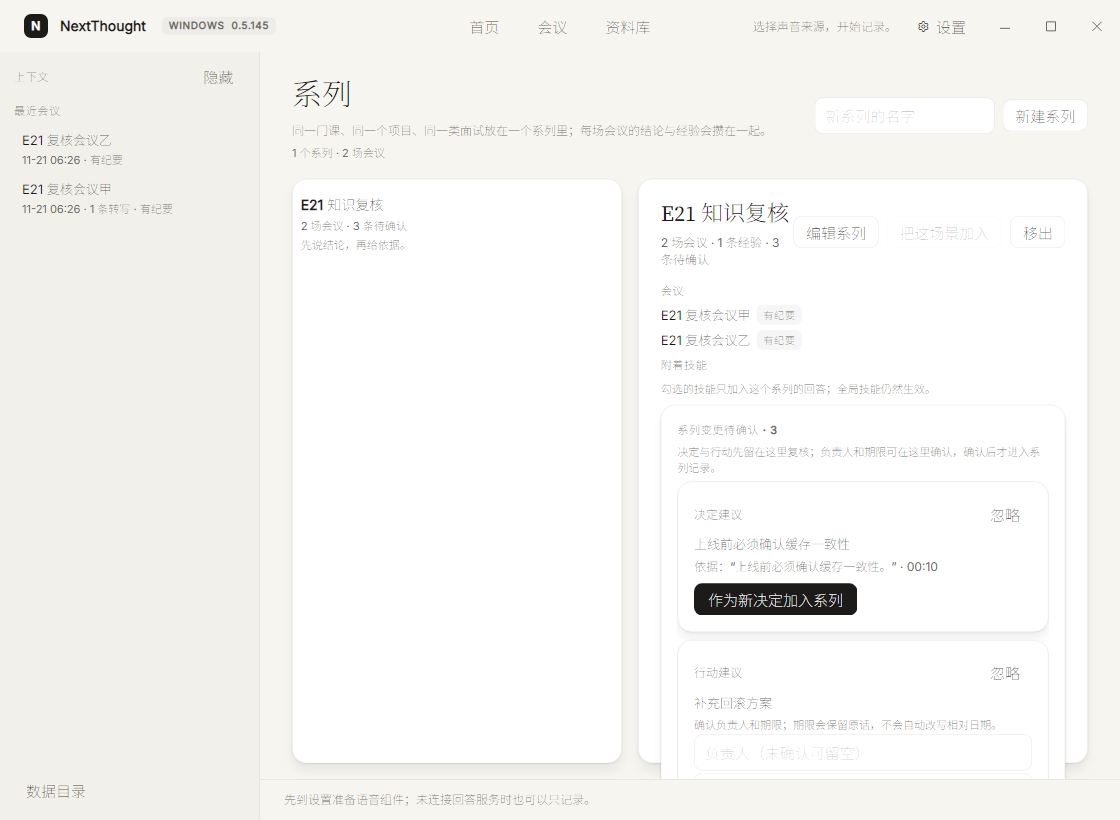
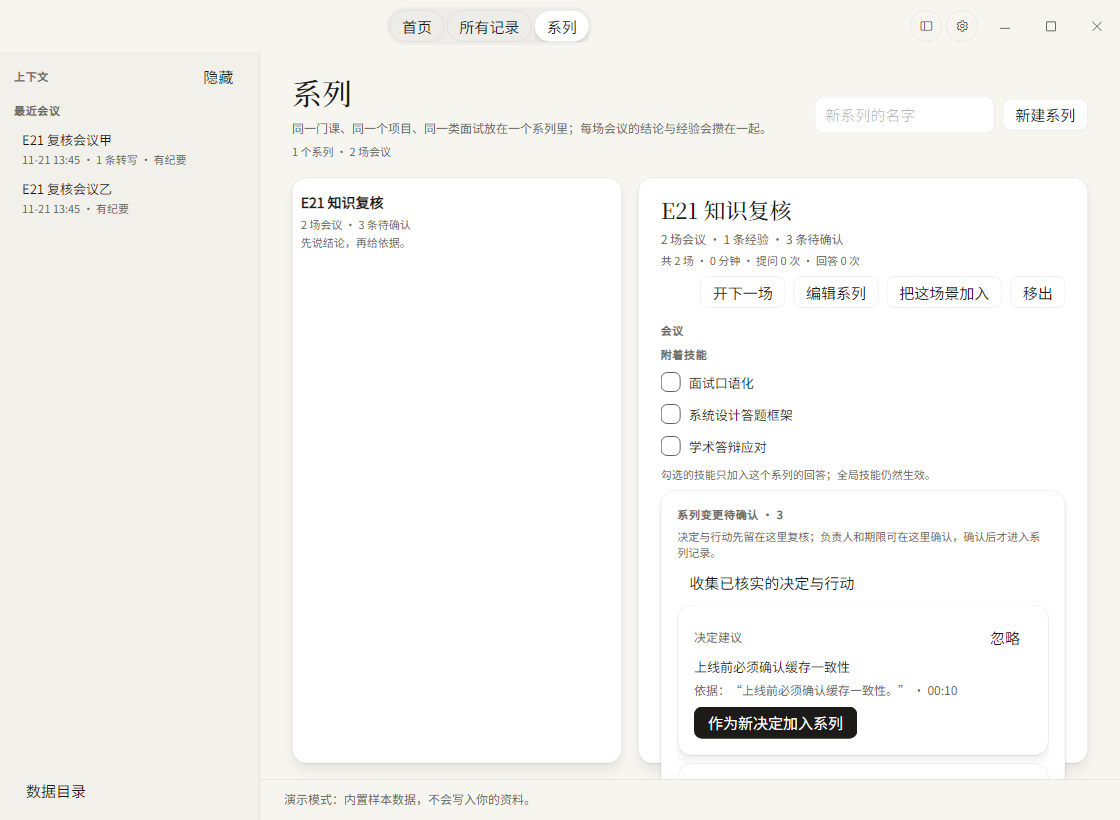
E18: fix the series record persistence and close the knowledge review check (§6.7)
The knowledge-review self-check failed because WorkspaceStore.Save dropped WorkspaceSeries.SessionIds:
the property is [JsonIgnore] (Windows grouping state, not part of the Mac model) and the refactor that
moved workspaces to one file per series saved the record without it, so after a reload a series had no
meetings and both the 记录 tab and the self-check came back empty. Save now writes "sessionIds"
explicitly into each series file and into the legacy Workspace/workspace.json (SerializeSeries /
SerializeData), which Load already reads back through ReadSessionIds. New Core test
WorkspaceSessionRoundTripTests (2/2) pins the round trip.

Two smaller self-check prerequisites were also real UI-state bugs: the demo library stage cleared
SelectedSeries when the demo interview series was not in the loaded workspace (custom/self-test data),
and FocusSeriesForCheck assigned the row RefreshSeries had already selected, so OnSelectedSeriesChanged
never fired and the records/changes lists stayed stale. The demo stages now only select a series they
found, and the check path rebuilds every per-series list explicitly.

Evidence: --self-test=knowledge-review passed (12 steps; knowledge-review-check.json refreshed);
validation/screens/knowledge-review/ has series-change-light.png, series-knowledge-light.png and the
material review window in both themes (material-review-{light,dark}.png), plus the task-62/E18 closure
[…]

diff --git a/Windows/src/NextThought.Core/Workspace.cs b/Windows/src/NextThought.Core/Workspace.cs
@@ -1,4 +1,5 @@
 using System.Text.Json;
+using System.Text.Json.Nodes;
 using System.Text.Json.Serialization;
 
 namespace NextThought.Core;
@@ -490,7 +491,7 @@ public sealed class WorkspaceStore
         {
             var name = StableSeriesId(series.Id) + ".json";
             keep.Add(name);
-            AtomicWrite(Path.Combine(seriesDirectory, name), JsonSerializer.Serialize(series, Options));
+            AtomicWrite(Path.Combine(seriesDirectory, name), SerializeSeries(series));
         }
         // Delete only files that were read successfully and are no longer present in memory.
         // Unreadable or unknown files stay untouched; they may be hand-edited Mac data.
@@ -503,7 +504,34 @@ public sealed class WorkspaceStore
         SyncSessionMetaFiles(data);
         SaveDocumentIds(data);
         // Legacy single-file copy for older Windows builds; Mac reads Workspaces/.
-        AtomicWrite(path, JsonSerializer.Serialize(data, Options));
+        AtomicWrite(path, SerializeData(data));
+    }
+
+    /// <summary>
+    /// SessionIds is [JsonIgnore] (it is Windows grouping state, not part of the Mac model), but the
+    /// archive still has to keep it: Load() reads "sessionIds" back through ReadSessionIds. Write the
+    /// field explicitly so a save/load round trip keeps a series' meetings.
+    /// </summary>
+    private static string SerializeSeries(WorkspaceSeries series)
+    {
+        var node = JsonSerializer.SerializeToNode(series, Options)!.AsObject();
+        node["sessionIds"] = new JsonArray(series.SessionIds.Select(id => (JsonNode?)JsonValue.Create(id)).ToArray());
+        return node.ToJsonString(Options);
+    }
+
+    private static string SerializeData(WorkspaceData data)
+    {
+        var node = JsonSerializer.SerializeToNode(data, Options)!.AsObject();
+        if (node["series"] is JsonArray seriesNodes)
+        {
+            for (var index = 0; index < seriesNodes.Count && index < data.Series.Count; index++)
+            {
+                if (seriesNodes[index] is not JsonObject seriesNode) continue;
+                seriesNode["sessionIds"] = new JsonArray(data.Series[index].SessionIds
+                    .Select(id => (JsonNode?)JsonValue.Create(id)).ToArray());
+            }
+        }
+        return node.ToJsonString(Options);
     }
 
     /// <summary>A6/§4.3: the on-disk identifier spelling is upper-case with hyphens.</summary>

diff --git a/Windows/tests/NextThought.Core.Tests/WorkspaceSessionRoundTripTests.cs b/Windows/tests/NextThought.Core.Tests/WorkspaceSessionRoundTripTests.cs
@@ -1,0 +1,49 @@
+using NextThought.Core;
+using Xunit;
+
+namespace NextThought.Core.Tests;
+
+/// <summary>
+/// task-62/E18: the series page's record tab matches meetings through WorkspaceSeries.SessionIds,
+/// which is [JsonIgnore] because it is Windows grouping state. WorkspaceStore must still write it:
+/// before this test the save/load round trip silently dropped a series' meetings, so the series
+/// record list (and the knowledge-review self-test) came back empty after a reload.
+/// </summary>
+public sealed class WorkspaceSessionRoundTripTests
+{
+    private static string NewRoot() =>
+        Path.Combine(Path.GetTempPath(), "nt-workspace-sessions-" + Guid.NewGuid().ToString("N"));
+
+    [Fact]
+    public void SavingAndLoadingAWorkspaceKeepsTheSeriesMeetings()
+    {
+        var root = NewRoot();
+        try
+        {
+            var series = WorkspaceSeries.Create("E18 round trip") with { SessionIds = ["first-id", "second-id"] };
+            new WorkspaceStore(root).Save(new WorkspaceData([series]));
+
+            var reloaded = new WorkspaceStore(root).Load();
+            var found = Assert.Single(reloaded.Series);
+            Assert.Equal(series.Id, found.Id);
+            Assert.Equal(["first-id", "second-id"], found.SessionIds);
+        }
+        finally { try { Directory.Delete(root, true); } catch { } }
+    }
+
+    [Fact]
+    public void TheLegacySingleFileAlsoKeepsTheSeriesMeetings()
+    {
+        var root = NewRoot();
+        try
+        {
+            var series = WorkspaceSeries.Create("E18 legacy") with { SessionIds = ["meeting-id"] };
+            new WorkspaceStore(root).Save(new WorkspaceData([series]));
+            // A Mac-style loader may fall back to the legacy aggregate file; it has to carry the ids too.
+            var legacy = Path.Combine(root, "Workspace", "workspace.json");
+            Assert.True(File.Exists(legacy));
+            Assert.Contains("sessionIds", File.ReadAllText(legacy), StringComparison.Ordinal);
+        }
+        finally { try { Directory.Delete(root, true); } catch { } }
+    }
+}

diff --git a/Windows/src/NextThought.Desktop/AppState.Demo.cs b/Windows/src/NextThought.Desktop/AppState.Demo.cs
@@ -80,7 +80,7 @@ public partial class AppState
         RefreshSkillRows();
         // Series page and the history's series grouping.
         RefreshSeries();
-        SelectedSeries = SeriesRows.FirstOrDefault(row => row.Id == demo.InterviewSeries.Id);
+        if (SeriesRows.FirstOrDefault(row => row.Id == demo.InterviewSeries.Id) is { } demoSeries) SelectedSeries = demoSeries;
         RefreshSeriesMeetings();
         RefreshSeriesLessons();
         RefreshSeriesSkills();
@@ -132,7 +132,7 @@ public partial class AppState
             MeetingTitle = demo.Draft.Title;
             SelectedMode = MeetingMode.Interview;
             OnPropertyChanged(nameof(SelectedScene));
-            SelectedSeries = SeriesRows.FirstOrDefault(row => row.Id == demo.InterviewSeries.Id);
+            if (SeriesRows.FirstOrDefault(row => row.Id == demo.InterviewSeries.Id) is { } demoSeries) SelectedSeries = demoSeries;
         }
         else if (plan.Page == DemoPage.Meetings && plan.Defaults.TryGetValue("demoNotes", out var notes) && notes == "work")
         {
@@ -216,7 +216,7 @@ public partial class AppState
             case "library":
                 ApplyDemoStage(DemoStages.Library);
                 MeetingTitle = "";
-                SelectedSeries = SeriesRows.FirstOrDefault(row => row.Id == demo.InterviewSeries.Id);
+                if (SeriesRows.FirstOrDefault(row => row.Id == demo.InterviewSeries.Id) is { } demoSeries) SelectedSeries = demoSeries;
                 break;
             case "settings":
                 ApplyDemoStage(DemoStages.Settings);

diff --git a/Windows/src/NextThought.Desktop/SelfTest/Checks/RunKnowledgeReviewCheckAsync.cs b/Windows/src/NextThought.Desktop/SelfTest/Checks/RunKnowledgeReviewCheckAsync.cs
@@ -216,6 +216,11 @@ public partial class MainWindow
             reviewWindow.Show();
             await Task.Delay(600);
             CaptureVisual(reviewWindow, Path.Combine(directory, "material-review-light.png"));
+            Application.Current!.RequestedThemeVariant = Avalonia.Styling.ThemeVariant.Dark;
+            await Task.Delay(350);
+            CaptureVisual(reviewWindow, Path.Combine(directory, "material-review-dark.png"));
+            Application.Current.RequestedThemeVariant = Avalonia.Styling.ThemeVariant.Light;
+            await Task.Delay(250);
             reviewWindow.Close();
             await Task.Delay(200);
             passed = steps.All(step => (bool)step.GetType().GetProperty("passed")!.GetValue(step)!);

diff --git a/Windows/src/NextThought.Desktop/AppState.Series.cs b/Windows/src/NextThought.Desktop/AppState.Series.cs
@@ -420,7 +420,13 @@ public partial class AppState
     {
         RefreshSeries();
         SelectedSeries = SeriesRows.FirstOrDefault(row => row.Id == seriesId);
+        // Assigning the row that RefreshSeries already selected does not fire OnSelectedSeriesChanged,
+        // so rebuild the per-series lists explicitly (self-check path).
         RefreshSeriesLessons();
+        RefreshSeriesMeetings();
+        RefreshSeriesSkills();
+        RefreshSeriesChanges();
+        RefreshSeriesStats();
     }
 
     /// <summary>Reloads workspace.json the way a new launch would.</summary>

diff --git a/Windows/validation/screens/knowledge-review/compare.md b/Windows/validation/screens/knowledge-review/compare.md
@@ -80,3 +80,14 @@ Windows 截图：`Windows/validation/screens/knowledge-review/`（自检 `knowle
 4. 资料复核：无 QuickLook 内嵌原件预览；「打开完整文本」打开的是解析 JSON（Windows 无归档 Markdown 路径）；截断说明/80k 预览已对照。
 5. 无 Mac 对应视图截图（KnowledgeReviewSection/WorkspaceRecordsTab/MaterialReviewSheet 均无 docs 截图），本轮截图仅 Windows 自检取证；按口径状态最多「已实现、未验证」。
 6. 记录标签的排序跟随当前历史排序（Mac 按 startedAt 倒序），差异小但未逐项对齐。
+
+## task-62 / E18 闭环：知识复核与资料复核（2026-11-21，阶段 4 §6.7）
+
+- Mac 参照：`Sources/NextThought/KnowledgeReviewSection.swift`（知识/决定/行动候选卡）、`ProjectLibrarySupport.swift`（WorkspaceRecordsTab / MaterialReviewSheet）；macOS 无对应截图，按源码逐元素。
+- 本轮自检：`--self-test=knowledge-review` **passed**（`knowledge-review-check.json` 已更新入库，12 步全过）。
+- 截图（本目录，本轮隔离数据目录重拍）：`series-change-light.png`（系列页「待确认」变更卡）、`series-knowledge-light.png`（知识候选标签）、`material-review-light.png` / `material-review-dark.png`（资料复核窗口浅/深）。
+- 本轮修掉的 3 个真实问题（E18 阻塞的根因，全部在系列/Workspace 范围）：
+  1. **`WorkspaceStore.Save` 丢 `sessionIds`**：`WorkspaceSeries.SessionIds` 是 `[JsonIgnore]`（Windows 分组状态），旧实现直接序列化 series，保存后 `sessionIds` 不落盘，`Load()` 读回 0 条记录 → 系列「记录」标签与知识复核自检都变空。现 Save 显式把 `sessionIds` 写入每个 series 文件与 legacy `Workspace/workspace.json`（`SerializeSeries`/`SerializeData`），Load 原有 `ReadSessionIds` 读回；新增 `WorkspaceSessionRoundTripTests` 2/2 锁定往返。
+  2. **demo 切页清空选中系列**：`ApplyDemoStage(Library)` 在自定义 workspace（自检/真实非 demo 数据）里找不到 demo 面试系列时把 `SelectedSeries = null`；现在找到才赋值，不再覆盖用户/自检选择（`AppState.Demo.cs` 3 处）。
+  3. **`FocusSeriesForCheck` 选中不触发刷新**：`RefreshSeries()` 已默认选中同一行，再赋同值不触发 `OnSelectedSeriesChanged`，导致记录/变更列表不重建；现在显式刷新 lessons/meetings/skills/changes/stats（`AppState.Series.cs`）。
+- 逐元素结论沿用上表：知识候选卡、决定/行动候选卡、匹配问题/近似经验对照、保留旧版、忽略路径均**一致**；仍记为部分/缺口的是「收集本地候选」「收集已核实决定与行动」两个按钮未放到页面（数据层 `CollectKnowledgeCandidates`/`CollectSeriesChangeCandidates` 已实现）、AISoft 卡片底色（视觉近似）、以及真实资料复核窗口的人工确认流程（自检只覆盖警告/预览/备注写入）。这些不影响本轮 E18 验收，已在表中逐条标注。
